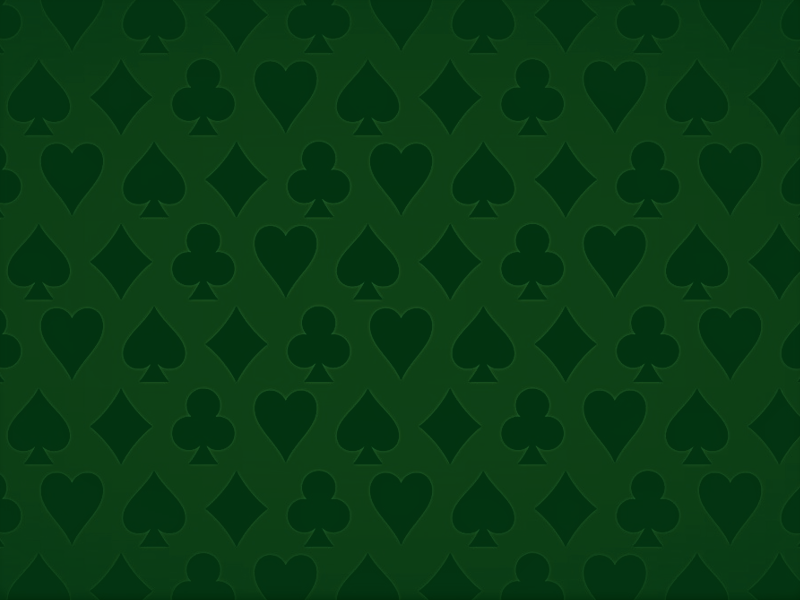
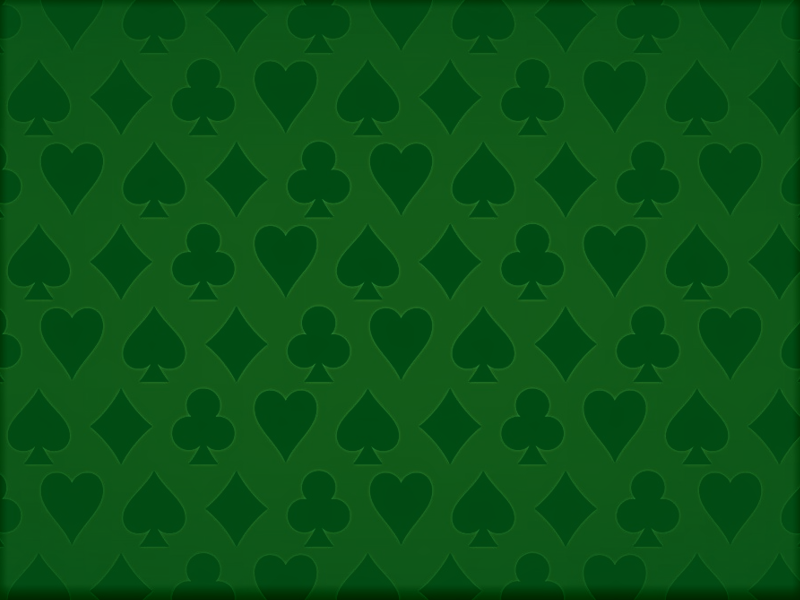
added background options because WHY NOT?

diff --git a/Pages/PageMenu.xaml b/Pages/PageMenu.xaml
@@ -9,40 +9,46 @@
       Title="PageMenu">
 
     <Grid>
-        <!-- StackPanel that contains Tarneeb title at top and Main Menu contents on bottom -->
-        <StackPanel>
+        <Canvas>
+            <TextBlock Text="Tarneeb" Canvas.Left="360" Canvas.Top="20" FontSize="80" Foreground="Black"/>
+            <TextBlock Text="Tarneeb" Canvas.Left="360" Canvas.Top="24" FontSize="80" Foreground="Black"/>
+            <TextBlock Text="Tarneeb" Canvas.Left="364" Canvas.Top="20" FontSize="80" Foreground="Black"/>
+            <TextBlock Text="Tarneeb" Canvas.Left="364" Canvas.Top="24" FontSize="80" Foreground="Black"/>
+            <TextBlock Text="Tarneeb" Canvas.Left="362" Canvas.Top="22" FontSize="80" Foreground="#e8c133"/>
 
-            <Canvas Height="150">
-                <TextBlock Text="Tarneeb" Canvas.Left="360" Canvas.Top="20" FontSize="80" Foreground="Black"/>
-                <TextBlock Text="Tarneeb" Canvas.Left="360" Canvas.Top="24" FontSize="80" Foreground="Black"/>
-                <TextBlock Text="Tarneeb" Canvas.Left="364" Canvas.Top="20" FontSize="80" Foreground="Black"/>
-                <TextBlock Text="Tarneeb" Canvas.Left="364" Canvas.Top="24" FontSize="80" Foreground="Black"/>
-                <TextBlock Text="Tarneeb" Canvas.Left="362" Canvas.Top="22" FontSize="80" Foreground="#e8c133"/>
-            </Canvas>
+            <!-- Vertical StackPanel containing menu buttons -->
+            <StackPanel Margin="40,200" Canvas.Left="40" Canvas.Top="80">
+                <Button Name="btnMainPlay" Content="Play" Margin="0,4"  
+                            Height="35" Width="130" FontSize="16" Background="PowderBlue" Click="btnPlayClick"></Button>
+                <Button Name="btnMainHowTo" Content="How To Play" Margin="0,4" 
+                            Height="35" Width="130" FontSize="16" Background="PowderBlue" Click="btnHowToClick"></Button>
+                <Button Name="btnMainStats" Content="Statistics" Margin="0,4"  
+                            Height="35" Width="130" FontSize="16" Background="PowderBlue" Click="btnStatsClick"></Button>
+                <Button Name="btnMainExit" Content="Exit" Margin="0,4" 
+                            Height="35" Width="130" FontSize="16" Background="PowderBlue" Click="btnExitClick"></Button>
+            </StackPanel>
 
-            <!-- Grid to have buttons on left and image on right -->
-            <Grid>
-                <!-- Definition of grid columns  -->
-                <Grid.ColumnDefinitions>
-                    <ColumnDefinition Width="Auto"></ColumnDefinition>
-                    <ColumnDefinition></ColumnDefinition>
-                </Grid.ColumnDefinitions>
+            <!-- Image of cards -->
+            <Image Source="/Images/MainMenuImage.png" Height="250" Canvas.Left="620" Canvas.Top="210" />
 
-                <!-- Vertical StackPanel containing menu buttons -->
-                <StackPanel Grid.Column="0" Margin="40,200" HorizontalAlignment="Left">
-                    <Button Name="btnMainPlay" Content="Play" Margin="0,4"  
-                                Height="35" Width="130" FontSize="16" Background="PowderBlue" Click="btnPlayClick"></Button>
-                    <Button Name="btnMainHowTo" Content="How To Play" Margin="0,4" 
-                                Height="35" Width="130" FontSize="16" Background="PowderBlue" Click="btnHowToClick"></Button>
-                    <Button Name="btnMainStats" Content="Statistics" Margin="0,4"  
-                                Height="35" Width="130" FontSize="16" Background="PowderBlue" Click="btnStatsClick"></Button>
-                    <Button Name="btnMainExit" Content="Exit" Margin="0,4" 
-                                Height="35" Width="130" FontSize="16" Background="PowderBlue" Click="btnExitClick"></Button>
-                </StackPanel>
+            <!-- Background Selectors -->
+            <Border Name="BorderGreen" BorderThickness="2" BorderBrush="#e8c133" Canvas.Left="40" Canvas.Top="650">
+                <Image Source="/Images/BGPreviews/PreviewGreen.png" Width="60" RenderOptions.BitmapScalingMode="HighQuality" MouseDown="BGGreenMouseDown" />
+            </Border>
+            <Border Name="BorderRed" BorderThickness="2" BorderBrush="Black" Canvas.Left="120" Canvas.Top="650">
+                <Image Source="/Images/BGPreviews/PreviewRed.png" Width="60" RenderOptions.BitmapScalingMode="HighQuality" MouseDown="BGRedMouseDown" />
+            </Border>
+            <Border Name="BorderBlue" BorderThickness="2" BorderBrush="Black" Canvas.Left="200" Canvas.Top="650">
+                <Image Source="/Images/BGPreviews/PreviewBlue.png" Width="60" RenderOptions.BitmapScalingMode="HighQuality" MouseDown="BGBlueMouseDown" />
+            </Border>
 
-                <!-- Image of cards -->
-                <Image Grid.Column="1" Source="/Images/MainMenuImage.png" Height="250" Margin="40" HorizontalAlignment="Right"/>
-            </Grid>
-        </StackPanel>
+            <!-- Background Selector Label -->
+            <TextBlock Text="Background:" Canvas.Left="91" Canvas.Top="605" FontSize="20" Foreground="Black"/>
+            <TextBlock Text="Background:" Canvas.Left="91" Canvas.Top="607" FontSize="20" Foreground="Black"/>
+            <TextBlock Text="Background:" Canvas.Left="93" Canvas.Top="605" FontSize="20" Foreground="Black"/>
+            <TextBlock Text="Background:" Canvas.Left="93" Canvas.Top="607" FontSize="20" Foreground="Black"/>
+            <TextBlock Text="Background:" Canvas.Left="92" Canvas.Top="606" FontSize="20" Foreground="#e8c133"/>
+
+        </Canvas>
     </Grid>
 </Page>

diff --git a/MainWindow.xaml b/MainWindow.xaml
@@ -10,7 +10,7 @@
         Title="Tarneeb: An OOP-4200 Project" Height="800" Width="1000" >
     <Grid>
         <Grid.Background>
-            <ImageBrush ImageSource="/Images/Backgrounds/_BGGreen2.png"/>
+            <ImageBrush x:Name="BackgroundImage" ImageSource="/Images/Backgrounds/_BGGreen.png"/>
         </Grid.Background>
         
         <Frame x:Name="Main" NavigationUIVisibility="Hidden"></Frame>

diff --git a/Pages/PageMenu.xaml.cs b/Pages/PageMenu.xaml.cs
@@ -18,9 +18,23 @@ namespace OOP4200_Tarneeb
     /// </summary>
     public partial class PageMenu : Page
     {
+        // Create a golden brush and black brush for background image border colours
+        public SolidColorBrush goldBorder = new SolidColorBrush(Color.FromRgb(232, 193, 51));
+        public SolidColorBrush blackBorder = new SolidColorBrush(Color.FromRgb(0, 0, 0));
+
+        // The currently selected background image (1 = green, 2 = red, 3 = blue)
+        public int currentBackground = ((MainWindow)Application.Current.MainWindow).currentBackground;
+
+        // ImageSources for the 3 background options
+        public ImageSource greenBackground = (ImageSource)new ImageSourceConverter().ConvertFrom(@"../../../Images/Backgrounds/_BGGreen.png");
+        public ImageSource redBackground = (ImageSource)new ImageSourceConverter().ConvertFrom(@"../../../Images/Backgrounds/_BGRed.png");
+        public ImageSource blueBackground = (ImageSource)new ImageSourceConverter().ConvertFrom(@"../../../Images/Backgrounds/_BGBlue.png");
+
+
         public PageMenu()
         {
             InitializeComponent();
+            HighlightBorder(currentBackground);
         }
 
         private void btnHowToClick(object sender, RoutedEventArgs e)
@@ -44,6 +58,115 @@ namespace OOP4200_Tarneeb
         {
             PageGame gamePage = new PageGame();
             NavigationService.Navigate(gamePage);
+        }
+
+        /// <summary>
+        /// Changes the background to Green
+        /// </summary>
+        /// <param name="sender"></param>
+        /// <param name="e"></param>
+        private void BGGreenMouseDown(object sender, MouseButtonEventArgs e)
+        {
+            // If the background isn't green, set it to green
+            if (currentBackground != 1)
+            {
+                SetBackground(1);
+            }
+        }
+
+        /// <summary>
+        /// Changes the background to Red
+        /// </summary>
+        /// <param name="sender"></param>
+        /// <param name="e"></param>
+        private void BGRedMouseDown(object sender, MouseButtonEventArgs e)
+        {
+            // If the background isn't red, set it to red
+            if (currentBackground != 2)
+            {
+                SetBackground(2);
+            }
+        }
+
+        /// <summary>
+        /// Changes the background to Blue
+        /// </summary>
+        /// <param name="sender"></param>
+        /// <param name="e"></param>
+        private void BGBlueMouseDown(object sender, MouseButtonEventArgs e)
+        {
+            // If the background isn't blue, set it to blue
+            if (currentBackground != 3)
+            {
+                SetBackground(3);
+            }
+        }
+
+        /// <summary>
+        /// Sets the background colour to the chosen colour
+        /// </summary>
+        /// <param name="background"></param>
+        public void SetBackground(int background)
+        {
+            // Switch the background to the selected one
+            switch (background)
+            {
+                case 1:
+                    // Set background to green
+                    ((MainWindow)Application.Current.MainWindow).BackgroundImage.ImageSource = greenBackground;
+
+                    // Highlight the green background preview image's border
+                    HighlightBorder(1);
+
+                    // Set the currentBackground
+                    currentBackground = 1;
+                    ((MainWindow)Application.Current.MainWindow).currentBackground = 1;
+                    break;
+                case 2:
+                    ((MainWindow)Application.Current.MainWindow).BackgroundImage.ImageSource = redBackground;
+                    HighlightBorder(2);
+                    currentBackground = 2;
+                    ((MainWindow)Application.Current.MainWindow).currentBackground = 2;
+                    break;
+                case 3:
+                    ((MainWindow)Application.Current.MainWindow).BackgroundImage.ImageSource = blueBackground;
+                    HighlightBorder(3);
+                    currentBackground = 3;
+                    ((MainWindow)Application.Current.MainWindow).currentBackground = 3;
+                    break;
+                default:
+                    break;
+            }
+
+        }
+
+        /// <summary>
+        /// Highlights the selected border with a gold colour, while setting
+        /// all other borders to black
+        /// </summary>
+        /// <param name="border">The border to highlight</param>
+        public void HighlightBorder(int border)
+        {
+            // Reset all borders to black
+            BorderGreen.BorderBrush = blackBorder;
+            BorderRed.BorderBrush = blackBorder;
+            BorderBlue.BorderBrush = blackBorder;
+
+            // Highlight the selected border
+            switch (border)
+            {
+                case 1:
+                    BorderGreen.BorderBrush = goldBorder;
+                    break;
+                case 2:
+                    BorderRed.BorderBrush = goldBorder;
+                    break;
+                case 3:
+                    BorderBlue.BorderBrush = goldBorder;
+                    break;
+                default:
+                    break;
+            }
         }
     }
 }

diff --git a/MainWindow.xaml.cs b/MainWindow.xaml.cs
@@ -20,6 +20,9 @@ namespace OOP4200_Tarneeb
     /// </summary>
     public partial class MainWindow : Window
     {
+        // The current background colour
+        public int currentBackground = 1;
+
         public MainWindow()
         {
             InitializeComponent();
